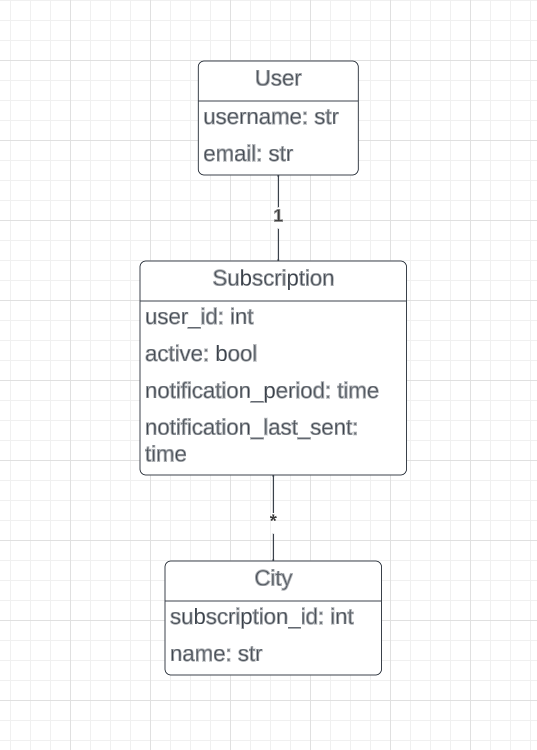
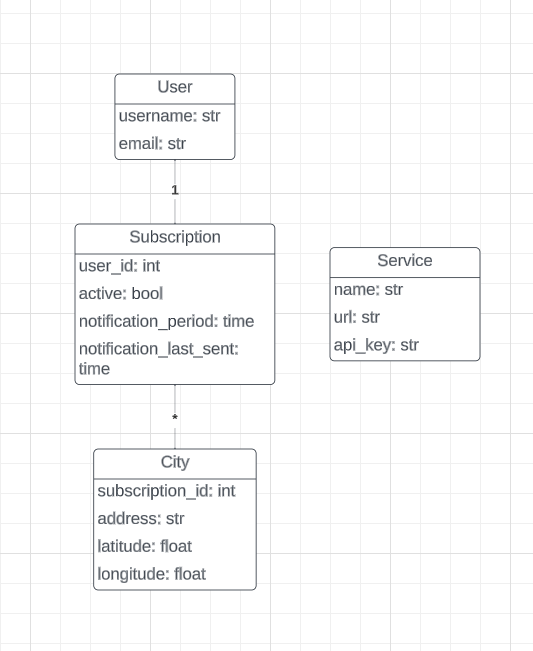
Сhanges in planning.

diff --git a/README.md b/README.md
@@ -5,8 +5,7 @@
 ### 1. Створити та налаштувати проект.
 
 ### 2. Створити та налаштувати додаток 'weather_reminder':
-1. Створити темплейти, views та urls для реєстрації та логіну користувачів.
-2. Створити моделі subscriprion та city:
+1. Створити моделі subscriprion, city та service:
 
 ```python
 class Subscription(models.Model):
@@ -20,9 +19,18 @@ class Subscription(models.Model):
 
 class City(models.Model):
     subscription = models.ManyToManyField(Subscription, related_name='cities')
+    address = models.CharField(unique=True)
+    latitude = models.FloatField()
+    longitude = models.FloatField()
+    
+    
+class Service(models.Model):
     name = models.CharField(max_lenght=150, unique=True)
+    url = models.CharField()
+    api = models.CharField()
 ```
 
+2. Створити темплейти, views та urls для реєстрації та логіну користувачів.
 3. Створити сторінку профілю користувача де він може редагувати профіль та налаштувати підписку.
 4. Написати функції send_email, get_weather та темплейт для листа які будуть брати погоду з API сервісу та відправляти її.
 5. Додати до проекту та налаштувати celery.
